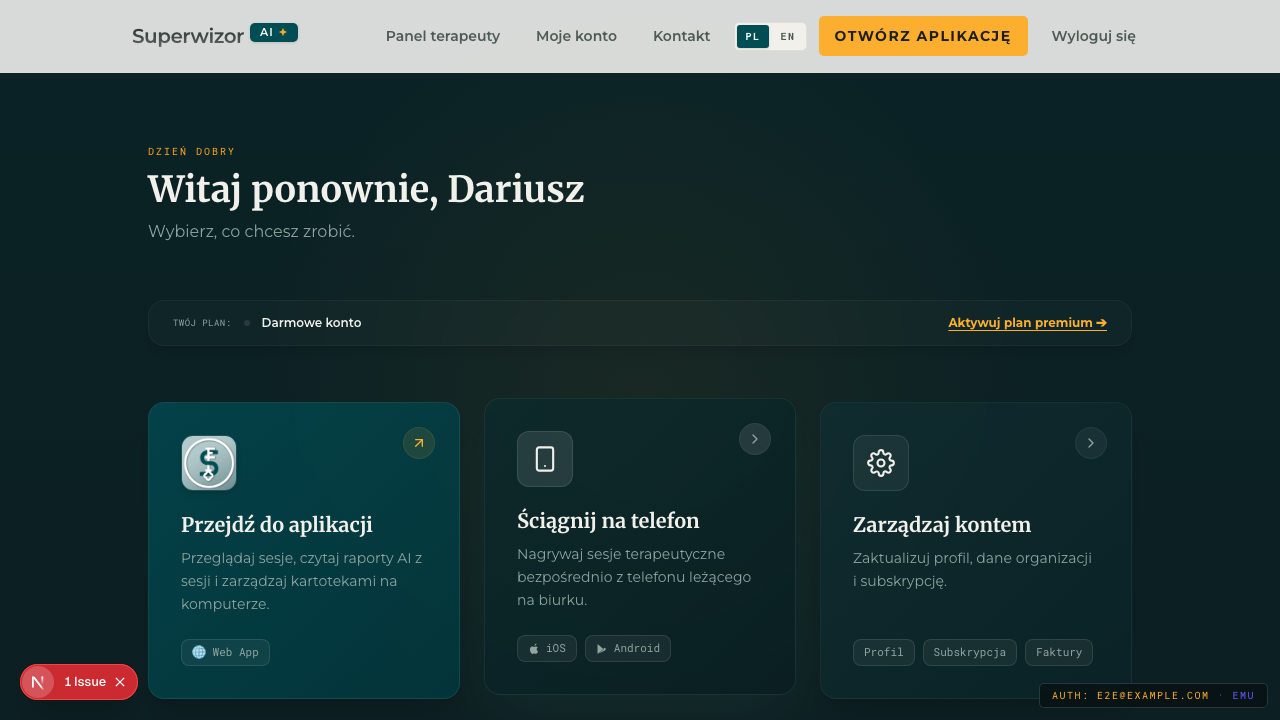
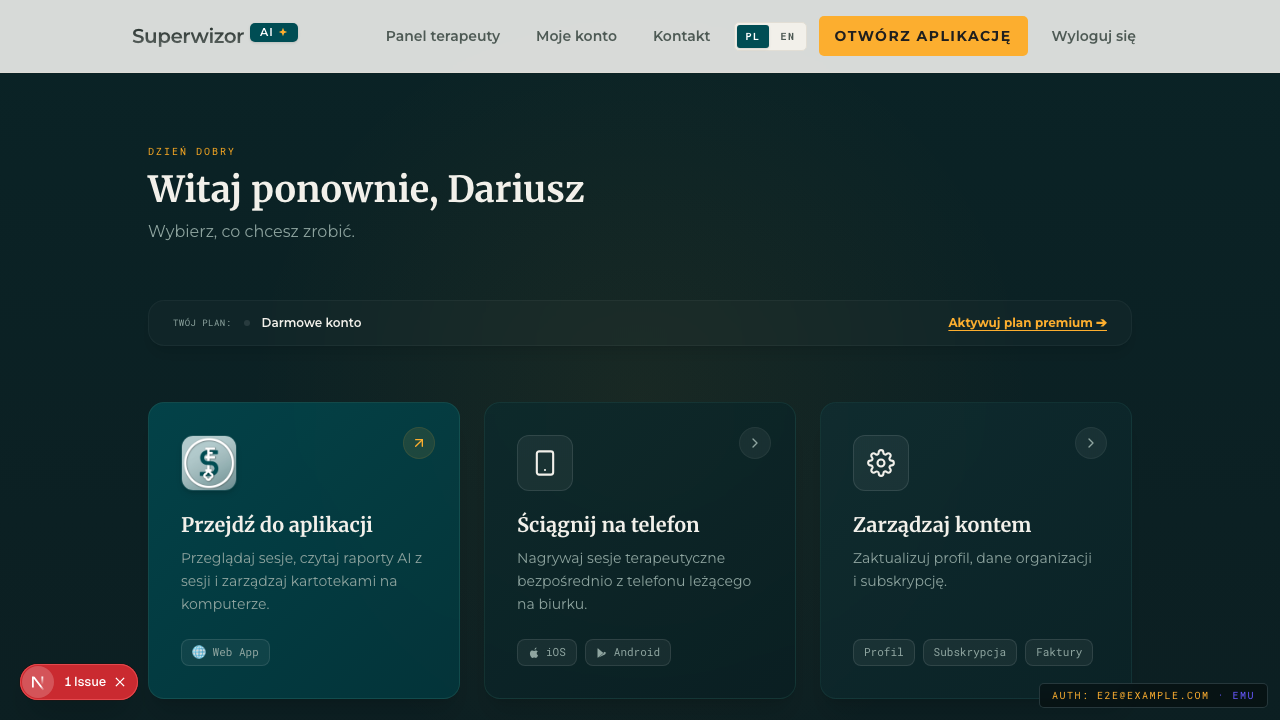
feat(navbar): przycisk "Otwórz aplikację" też tylko na desktopie
Wariant "app" navbara niósł drugie wejście do web-appki pod tym samym
APP_URL, widoczne na każdej szerokości — więc na telefonie kafelek
znikał, a przycisk zostawał. Teraz oba chowa ten sam hook
useHandheldDevice plus [@media(pointer:coarse)]:hidden na czas przed
hydracją.

Reszta nawigacji bez zmian. Uwaga: LogoutButton ma "hidden md:inline"
(stan sprzed tej zmiany), więc na telefonie w navbarze wariantu "app"
zostaje logo i przełącznik języka; na tablecie (md+) wylogowanie nadal
jest widoczne.

Testy e2e rozszerzone o asercję na przycisk w navbarze — 3 PASS,
zrzuty w evidence/dashboard-handheld/ odświeżone. tsc czysty,
pnpm lint bez błędów (80 warningów, wszystkie zastane), pnpm build ok.

diff --git a/marketing-site/tests/e2e/dashboard-handheld.spec.ts b/marketing-site/tests/e2e/dashboard-handheld.spec.ts
@@ -1,10 +1,10 @@
-// Playwright E2E: the dashboard's "Przejdź do aplikacji" tile is
-// desktop-only.
+// Playwright E2E: the web-app entry points are desktop-only.
 //
 // On a phone or a tablet we steer the therapist to the native
-// iOS/Android app instead of the Flutter web build, so the tile that
-// links to superwizor-app.web.app must not render there. The other two
-// tiles ("Ściągnij na telefon", "Zarządzaj kontem") are unaffected.
+// iOS/Android app instead of the Flutter web build, so neither the
+// dashboard tile nor the navbar CTA that link to superwizor-app.web.app
+// may render there. The remaining tiles ("Ściągnij na telefon",
+// "Zarządzaj kontem") and the rest of the navigation are unaffected.
 //
 // The detection under test (src/lib/hooks/useHandheldDevice.ts) is
 // device-shaped, not viewport-shaped — hence the deliberately awkward
@@ -46,25 +46,29 @@ async function signInToDashboard(page: Page) {
   await expect(page).toHaveURL(new RegExp(`(${prefix}|/pl|/en)?/dashboard`));
 }
 
-// Scoped to the card's heading on purpose: the navbar carries a second
-// link to the same APP_URL ("Otwórz aplikację"), which this change does
-// not touch.
+// Scoped to the card's heading on purpose — the navbar carries a second
+// link to the same APP_URL, asserted separately by navbarAppCta().
 function webAppTile(page: Page) {
   return page.getByRole("heading", {
     name: /Przejdź do aplikacji|Go to Application/,
   });
 }
 
+function navbarAppCta(page: Page) {
+  return page.getByRole("link", { name: /Otwórz aplikację|Open App/i });
+}
+
 function mobileTile(page: Page) {
   return page.getByRole("heading", { name: /Ściągnij na telefon|Download on Phone/ });
 }
 
-test.describe("Dashboard — web-app tile", () => {
-  test("desktop keeps the tile", async ({ page }, testInfo) => {
+test.describe("Web-app entry points", () => {
+  test("desktop keeps the tile and the navbar CTA", async ({ page }, testInfo) => {
     await signInToDashboard(page);
 
     await expect(mobileTile(page)).toBeVisible();
     await expect(webAppTile(page)).toBeVisible();
+    await expect(navbarAppCta(page)).toBeVisible();
 
     await page.screenshot({
       path: `../evidence/dashboard-handheld/${testInfo.project.name}-desktop.png`,
@@ -80,11 +84,12 @@ test.describe("Dashboard — web-app tile", () => {
       isMobile: true,
     });
 
-    test("hides the tile", async ({ page }, testInfo) => {
+    test("hides the tile and the navbar CTA", async ({ page }, testInfo) => {
       await signInToDashboard(page);
 
       await expect(mobileTile(page)).toBeVisible();
       await expect(webAppTile(page)).toHaveCount(0);
+      await expect(navbarAppCta(page)).toHaveCount(0);
 
       await page.screenshot({
         path: `../evidence/dashboard-handheld/${testInfo.project.name}-iphone.png`,
@@ -100,7 +105,7 @@ test.describe("Dashboard — web-app tile", () => {
       hasTouch: true,
     });
 
-    test("hides the tile", async ({ page }, testInfo) => {
+    test("hides the tile and the navbar CTA", async ({ page }, testInfo) => {
       // Playwright's touch emulation reports maxTouchPoints = 1; a real
       // iPad reports 5. Pin it so this exercises the same branch the
       // device does — the UA alone says "Macintosh".
@@ -112,6 +117,7 @@ test.describe("Dashboard — web-app tile", () => {
 
       await expect(mobileTile(page)).toBeVisible();
       await expect(webAppTile(page)).toHaveCount(0);
+      await expect(navbarAppCta(page)).toHaveCount(0);
 
       await page.screenshot({
         path: `../evidence/dashboard-handheld/${testInfo.project.name}-ipad.png`,

diff --git a/marketing-site/src/components/marketing/Navbar.tsx b/marketing-site/src/components/marketing/Navbar.tsx
@@ -16,6 +16,7 @@ import { useTranslations, useLocale } from "next-intl";
 import { usePathname } from "next/navigation";
 import { LocaleSwitcher } from "./LocaleSwitcher";
 import { openAppWithSso, APP_URL } from "@/lib/auth/open-app-sso";
+import { useHandheldDevice } from "@/lib/hooks/useHandheldDevice";
 
 export type NavbarVariant = "marketing" | "auth" | "tunnel" | "app";
 
@@ -23,6 +24,10 @@ export function Navbar({ variant = "marketing" }: { variant?: NavbarVariant }) {
   const t = useTranslations("nav");
   const locale = useLocale();
   const pathname = usePathname() ?? "";
+  // Telefon/tablet → natywna aplikacja, więc wejście do web-appki
+  // znika (tak samo jak kafelek na dashboardzie). Wylogowanie i reszta
+  // nawigacji zostają.
+  const isHandheld = useHandheldDevice();
 
   // Marketing routes — PL has no prefix, EN gets /en
   const prefix = locale === "en" ? "/en" : "";
@@ -199,16 +204,21 @@ export function Navbar({ variant = "marketing" }: { variant?: NavbarVariant }) {
           {/* ─── APP variant: Open App CTA + Log out ─── */}
           {variant === "app" && (
             <>
+              {/* Desktop only — pointer:coarse chowa przycisk jeszcze
+                  przed hydracją, useHandheldDevice zdejmuje go z drzewa
+                  (łapie też iPada, który podaje desktopowy UA). */}
+              {!isHandheld && (
               <a
                 href={APP_URL}
                 onClick={(e) => {
                   e.preventDefault();
                   void openAppWithSso();
                 }}
-                className="inline-flex items-center rounded-[5px] bg-ember text-obsidian hover:brightness-110 font-sans uppercase tracking-[var(--tracking-label)] text-xs sm:text-sm px-3 sm:px-4 py-2 sm:py-2.5 transition active:scale-[0.98] font-bold whitespace-nowrap"
+                className="inline-flex items-center rounded-[5px] bg-ember text-obsidian hover:brightness-110 font-sans uppercase tracking-[var(--tracking-label)] text-xs sm:text-sm px-3 sm:px-4 py-2 sm:py-2.5 transition active:scale-[0.98] font-bold whitespace-nowrap [@media(pointer:coarse)]:hidden"
               >
                 {t("openApp")}
               </a>
+              )}
               <LogoutButton label={t("logout")} />
             </>
           )}
